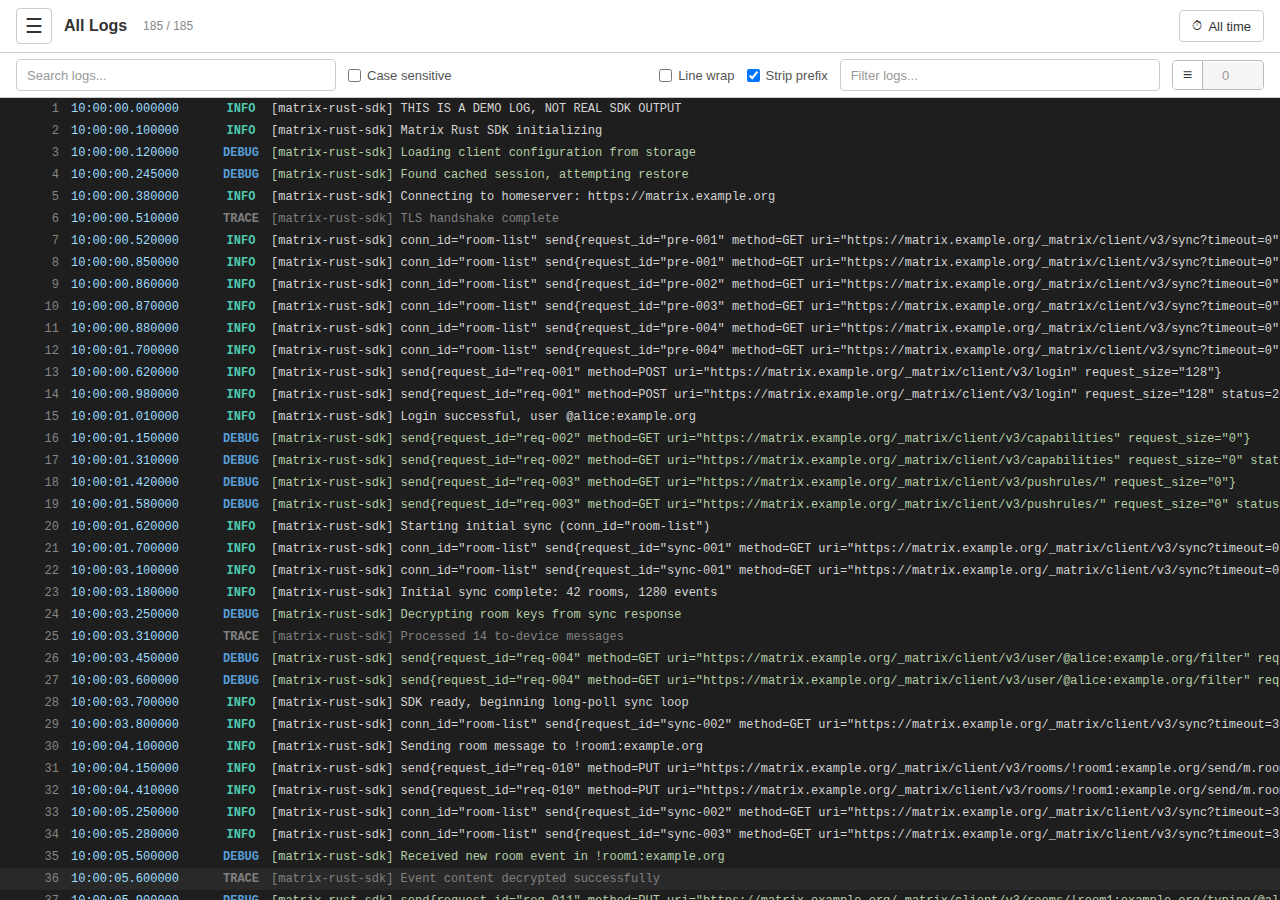
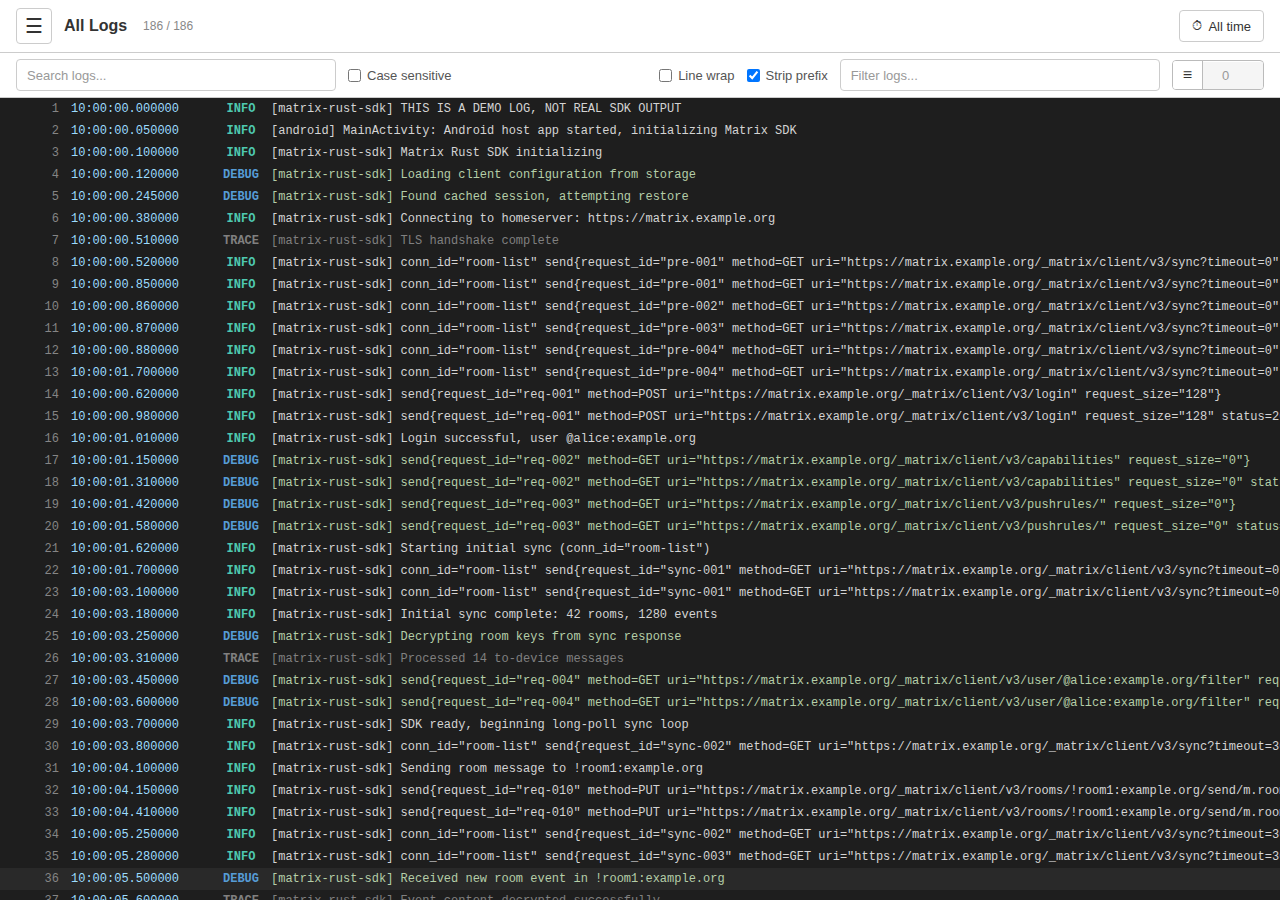
Detect platform from logs and show Summary platform label (#14)
* Detect mobile platform from logs and label Summary header

* chore: update screenshots [skip ci]

* Refactor SummaryView title label construction

---------

diff --git a/src/stores/__tests__/logStore.test.ts b/src/stores/__tests__/logStore.test.ts
@@ -537,4 +537,73 @@ describe('logStore', () => {
       expect(useLogStore.getState().filteredHttpRequests).toHaveLength(1);
     });
   });
+
+  describe('detectedPlatform', () => {
+    it('is null initially', () => {
+      expect(useLogStore.getState().detectedPlatform).toBeNull();
+    });
+
+    it('detects android when a line contains "MainActivity"', () => {
+      const rawLines = [
+        createParsedLogLine({ lineNumber: 0, message: 'MainActivity: App started' }),
+        createParsedLogLine({ lineNumber: 1, message: 'Matrix Rust SDK initializing' }),
+      ];
+      useLogStore.getState().setRequests([], [], rawLines);
+      expect(useLogStore.getState().detectedPlatform).toBe('android');
+    });
+
+    it('detects ios when a line contains "swift" (case-insensitive)', () => {
+      const rawLines = [
+        createParsedLogLine({ lineNumber: 0, message: 'Swift app launched' }),
+        createParsedLogLine({ lineNumber: 1, message: 'Matrix Rust SDK initializing' }),
+      ];
+      useLogStore.getState().setRequests([], [], rawLines);
+      expect(useLogStore.getState().detectedPlatform).toBe('ios');
+    });
+
+    it('detects ios for uppercase SWIFT', () => {
+      const rawLines = [
+        createParsedLogLine({ lineNumber: 0, message: 'SWIFT: bridge initialized' }),
+      ];
+      useLogStore.getState().setRequests([], [], rawLines);
+      expect(useLogStore.getState().detectedPlatform).toBe('ios');
+    });
+
+    it('returns null when both android and ios markers are present', () => {
+      const rawLines = [
+        createParsedLogLine({ lineNumber: 0, message: 'swift bridge init' }),
+        createParsedLogLine({ lineNumber: 1, message: 'MainActivity: started' }),
+      ];
+      useLogStore.getState().setRequests([], [], rawLines);
+      expect(useLogStore.getState().detectedPlatform).toBeNull();
+    });
+
+    it('returns null when no platform strings are found', () => {
+      const rawLines = [
+        createParsedLogLine({ lineNumber: 0, message: 'Matrix Rust SDK initializing' }),
+        createParsedLogLine({ lineNumber: 1, message: 'Loading client configuration from storage' }),
+      ];
+      useLogStore.getState().setRequests([], [], rawLines);
+      expect(useLogStore.getState().detectedPlatform).toBeNull();
+    });
+
+    it('is reset to null by clearData', () => {
+      const rawLines = [
+        createParsedLogLine({ lineNumber: 0, message: 'MainActivity: started' }),
+      ];
+      useLogStore.getState().setRequests([], [], rawLines);
+      expect(useLogStore.getState().detectedPlatform).toBe('android');
+
+      useLogStore.getState().clearData();
+      expect(useLogStore.getState().detectedPlatform).toBeNull();
+    });
+
+    it('also detects platform from setHttpRequests', () => {
+      const rawLines = [
+        createParsedLogLine({ lineNumber: 0, message: 'swift matrix sdk loaded' }),
+      ];
+      useLogStore.getState().setHttpRequests([], rawLines);
+      expect(useLogStore.getState().detectedPlatform).toBe('ios');
+    });
+  });
 });

diff --git a/src/stores/logStore.ts b/src/stores/logStore.ts
@@ -40,6 +40,9 @@ interface LogStore {
   rawLogLines: ParsedLogLine[];
   openLogViewerIds: Set<number>;
   lastRoute: string | null;
+
+  // Detected platform from log content
+  detectedPlatform: 'android' | 'ios' | null;
   
   // Error state
   error: AppError | null;
@@ -81,6 +84,22 @@ interface LogStore {
   getDisplayTime: (lineNumber: number) => string;
 }
 
+/** Scan parsed log lines to detect the host platform (Android or iOS). */
+function detectPlatform(rawLines: ParsedLogLine[]): 'android' | 'ios' | null {
+  const limit = Math.min(rawLines.length, 10000);
+  let foundAndroid = false;
+  let foundIos = false;
+  for (let i = 0; i < limit; i++) {
+    const msg = rawLines[i].message;
+    if (!foundAndroid && msg.includes('MainActivity')) foundAndroid = true;
+    if (!foundIos && /swift/i.test(msg)) foundIos = true;
+    if (foundAndroid && foundIos) return null;
+  }
+  if (foundAndroid) return 'android';
+  if (foundIos) return 'ios';
+  return null;
+}
+
 export const useLogStore = create<LogStore>((set, get) => ({
   // Sync-specific state
   allRequests: [],
@@ -114,6 +133,7 @@ export const useLogStore = create<LogStore>((set, get) => ({
   rawLogLines: [],
   openLogViewerIds: new Set(),
   lastRoute: null,
+  detectedPlatform: null,
   error: null,
 
   setRequests: (requests, connIds, rawLines) => {
@@ -124,6 +144,7 @@ export const useLogStore = create<LogStore>((set, get) => ({
         connectionIds: connIds,
         selectedConnId: defaultConn,
         rawLogLines: rawLines,
+        detectedPlatform: detectPlatform(rawLines),
         error: null
       });
       get().filterRequests();
@@ -151,7 +172,8 @@ export const useLogStore = create<LogStore>((set, get) => ({
   setHttpRequests: (requests, rawLines) => {
     set({ 
       allHttpRequests: requests,
-      rawLogLines: rawLines
+      rawLogLines: rawLines,
+      detectedPlatform: detectPlatform(rawLines),
     });
     get().filterHttpRequests();
   },
@@ -246,6 +268,7 @@ export const useLogStore = create<LogStore>((set, get) => ({
       expandedRows: new Set(),
       rawLogLines: [],
       openLogViewerIds: new Set(),
+      detectedPlatform: null,
     });
   },
   

diff --git a/src/views/SummaryView.tsx b/src/views/SummaryView.tsx
@@ -23,8 +23,11 @@ export function SummaryView() {
     connectionIds,
     startTime,
     endTime,
+    detectedPlatform,
   } = useLogStore();
   const { setTimeFilter } = useURLParams();
+
+  const summaryTitle = `Summary${detectedPlatform ? ` - ${detectedPlatform === 'ios' ? 'iOS' : 'Android'}` : ''}`;
 
   // Local zoom state (in microseconds)
   const [localStartTime, setLocalStartTime] = useState<TimestampMicros | null>(null);
@@ -428,7 +431,7 @@ export function SummaryView() {
       <div className="app">
         <div className="header-compact">
           <BurgerMenu />
-          <h1 className="header-title">Summary</h1>
+          <h1 className="header-title">{summaryTitle}</h1>
         </div>
         <div className="content">
           <p>No logs loaded. Please upload a log file to see the summary.</p>
@@ -442,7 +445,7 @@ export function SummaryView() {
       <div className="header-compact">
         <div className="header-left">
           <BurgerMenu />
-          <h1 className="header-title">Summary</h1>
+          <h1 className="header-title">{summaryTitle}</h1>
         </div>
         
         <div className="header-right">
